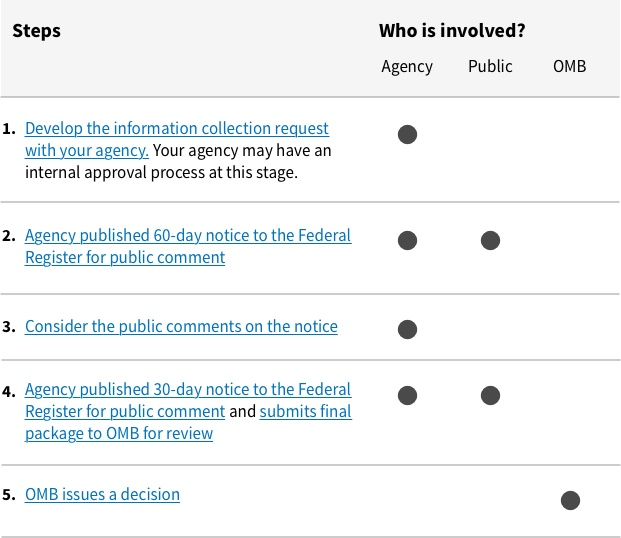
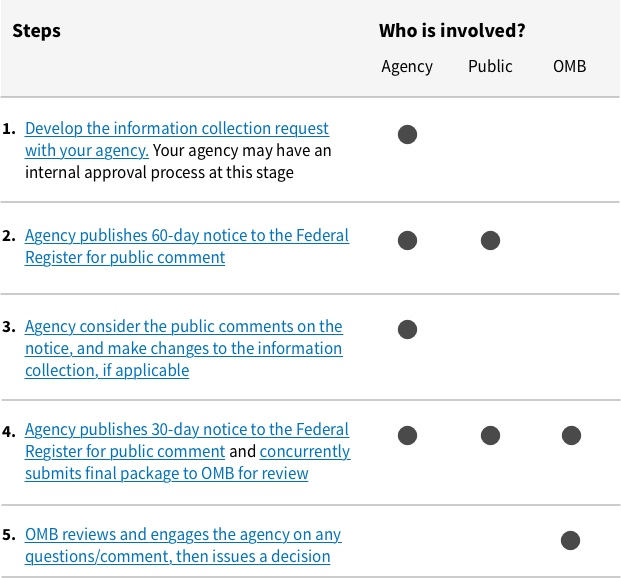
updating PRA process diagram based on feedback

diff --git a/_pages/clearance-process/index.md b/_pages/clearance-process/index.md
@@ -16,7 +16,7 @@ While the PRA approval process takes at least 90 days, you don’t have to exten
 
 ## Process overview for standard clearance
 
-Most agencies estimate 6 to 9 months for PRA clearance from start to finish. By law, this process takes at least 3 months of public comment.
+Most agencies estimate 6 to 9 months for PRA clearance from start to finish. By law, this process includes at least 3 months of public comment.
 
 ![pra process]({{'/assets/img/pra-process--for-site.jpg' | relative_url}})
 
